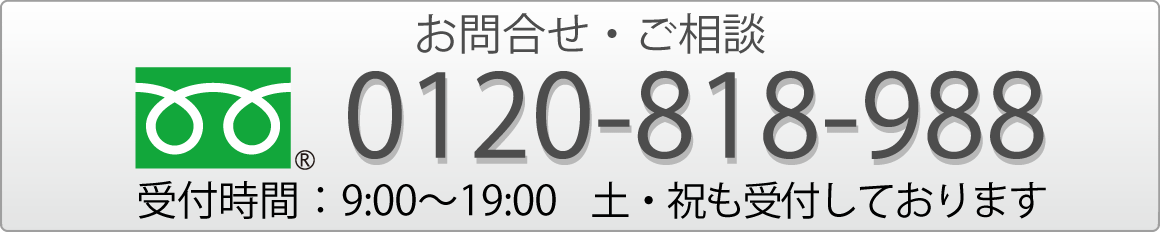
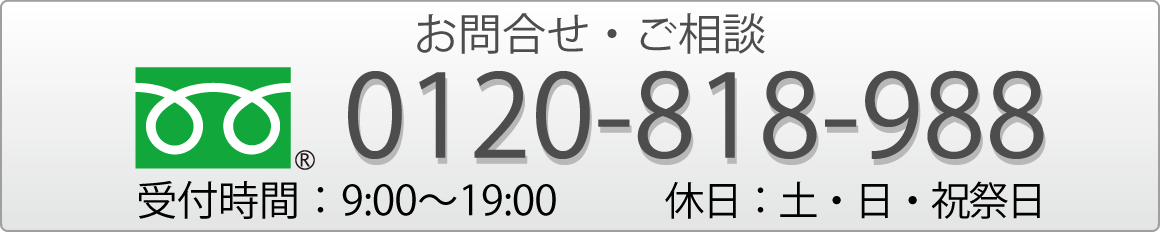
[FIX]営業日など修正

Changed region(s): [[0.4966, 0.7845, 0.9, 0.9655]]

diff --git a/lp.html b/lp.html
@@ -224,7 +224,7 @@
 	<hr class="hrDeco">
 	</div>
 
-	<section id="info">
+	<!--<section id="info">
 		<div class="container bottom30">
 			<div class="row">
 				<div class="col-lg-12 text-center">
@@ -245,7 +245,7 @@
 				</div>
 			</div>
 		</div>
-	</section>
+	</section>-->
 
 	<section id="contact1">
 		<div class="container">
@@ -1094,9 +1094,9 @@
 	
 	<section id="eigyou">
 		<div class="container">
-			<div class="row space20 topYohaku">
+			<!--<div class="row space20 topYohaku">
 				<div class="col-lg-12"><img src="landing_imeges/eigyou.png" class="img-responsive retina" alt="平日、土曜、祝日は営業しています。只今、売掛金強化買取中につき土曜日祝日も営業していますので、資金調達にお困りの方はいつでもご相談下さい。"></div>
-			</div>
+			</div>-->
 			<div class="row space20">
 				<div class="col-lg-12"><img src="landing_imeges/secret.png" class="img-responsive retina" alt="安心の2社間対応で秘密は厳守いたします。"></div>
 			</div>

diff --git a/index.html b/index.html
@@ -219,7 +219,7 @@
 		</div>
 	</section>
 	
-	<section id="info">
+	<!--<section id="info">
 		<div class="container bottom30">
 			<div class="row">
 				<div class="col-lg-12 text-center">
@@ -240,7 +240,7 @@
 				</div>
 			</div>
 		</div>
-	</section>
+	</section>-->
 	
 	
 <section id="shikinguri">
